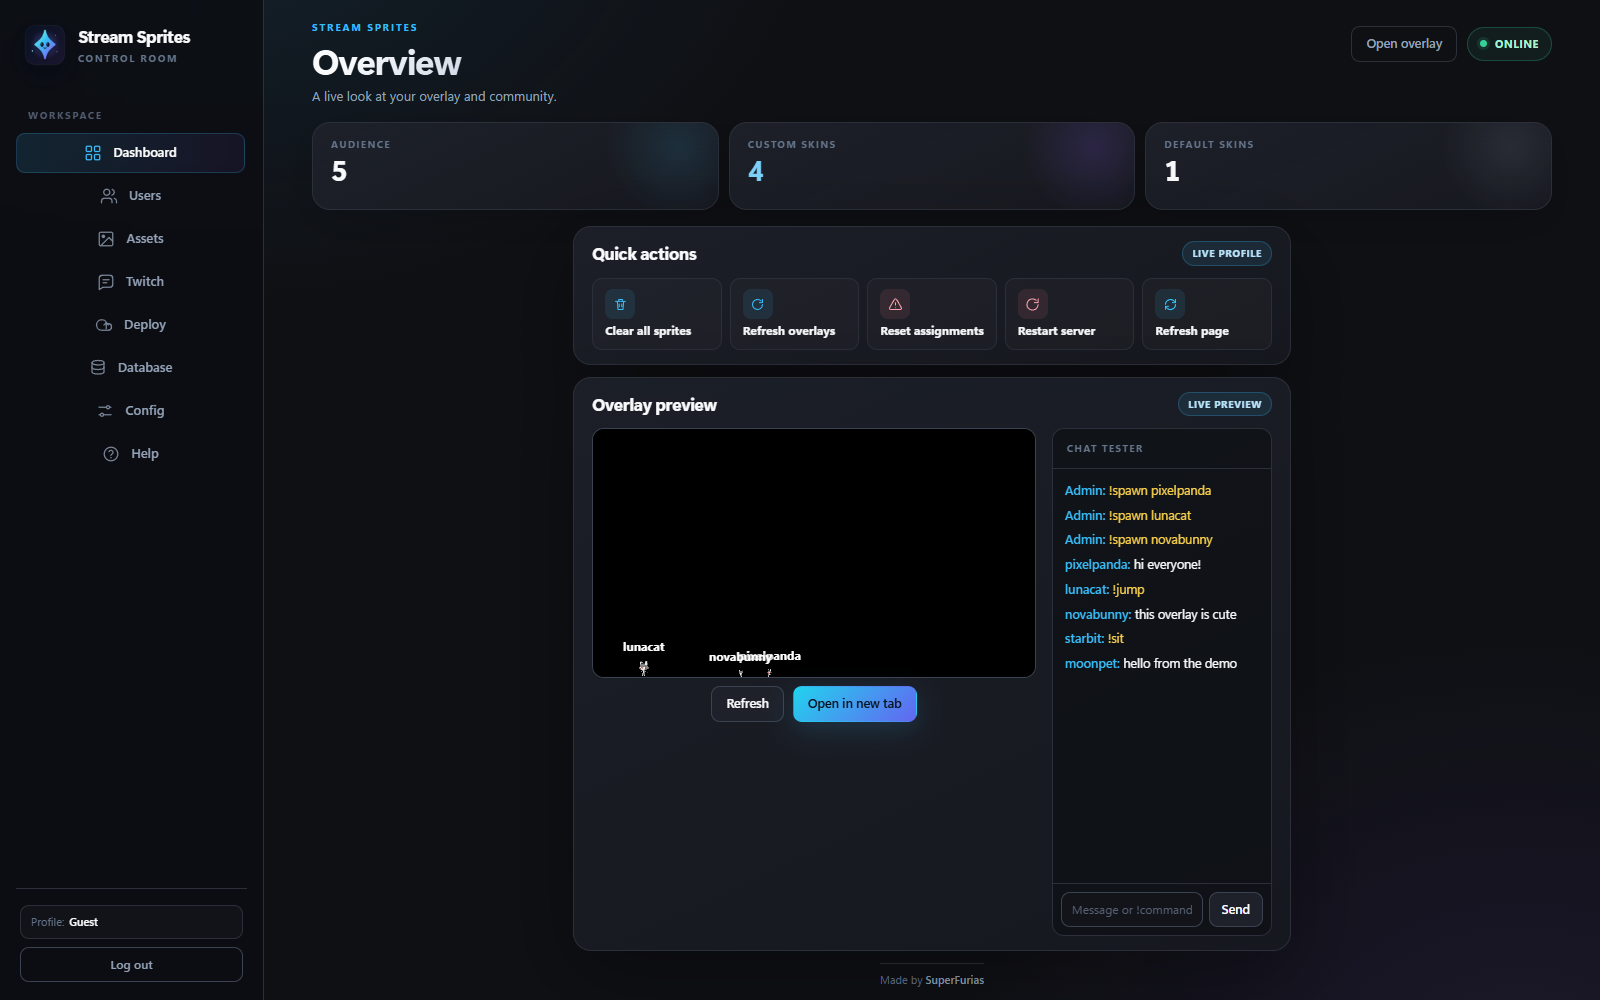
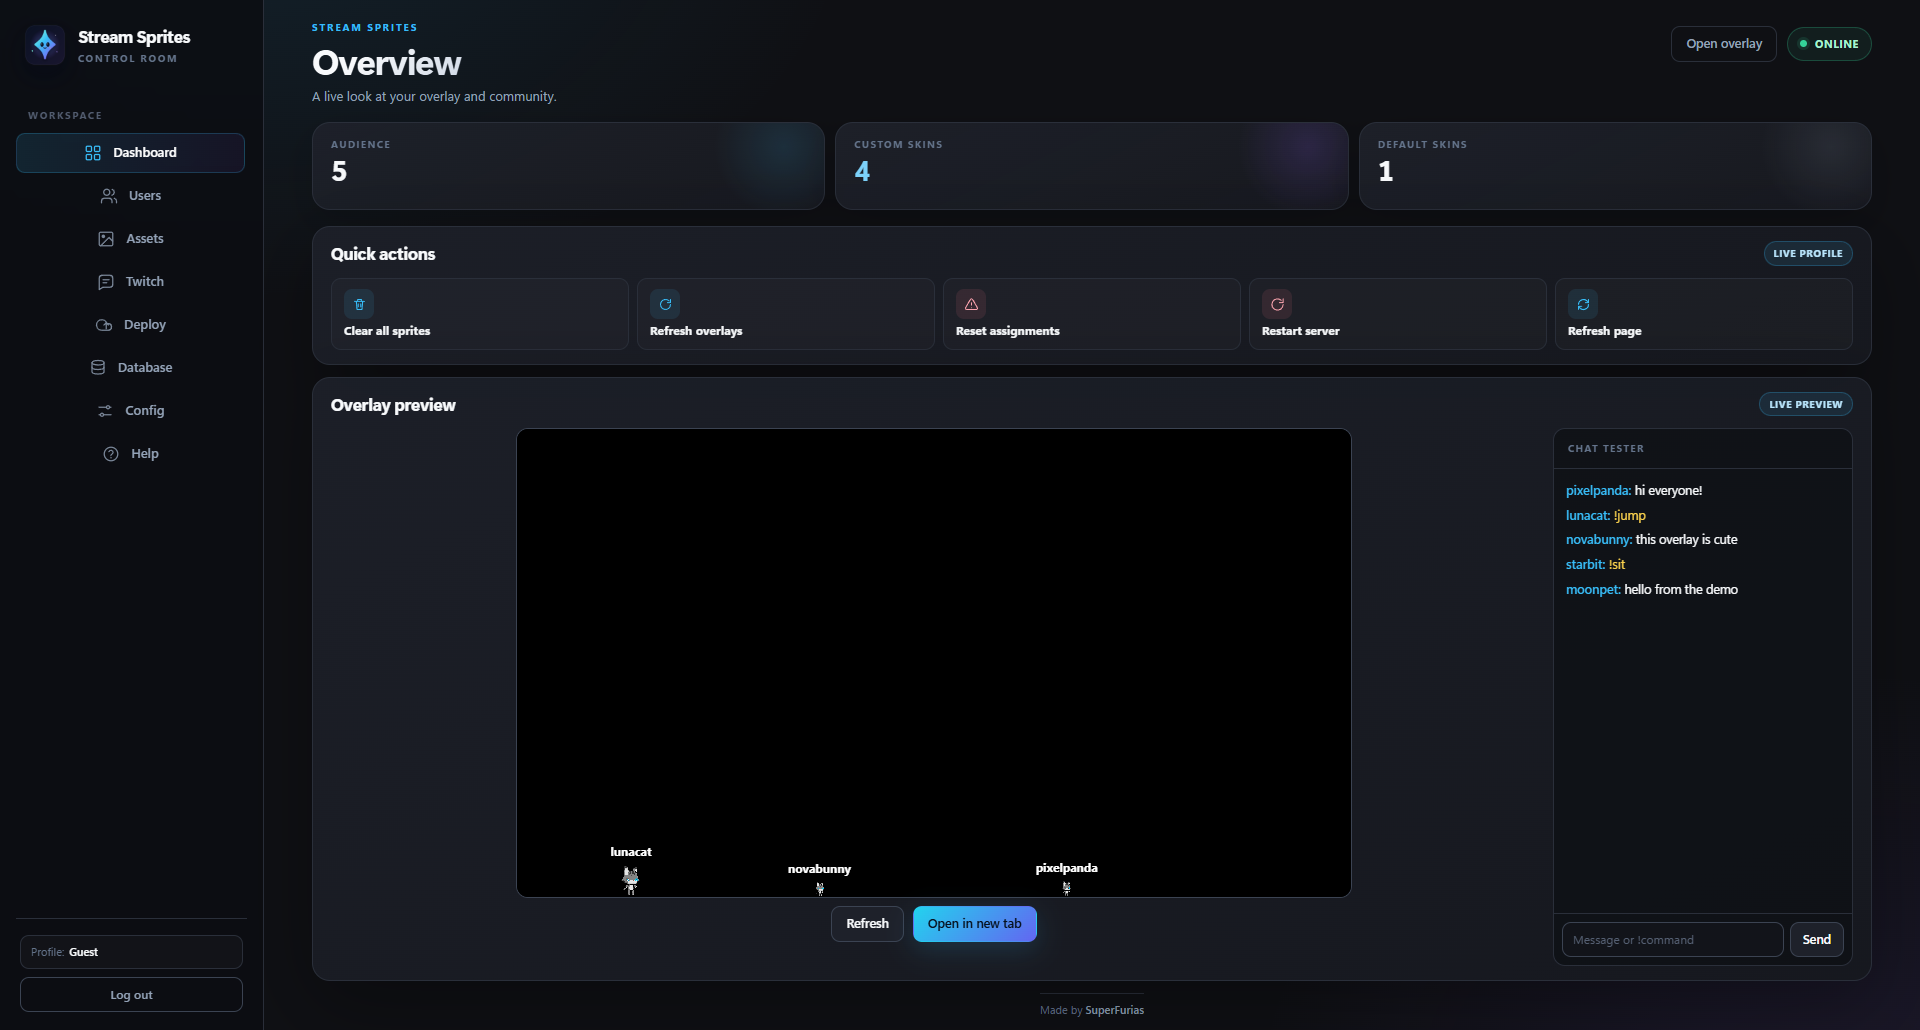
2.8.2: fix full-screen overview width

diff --git a/app/dashboard/ui.css b/app/dashboard/ui.css
@@ -617,6 +617,9 @@ body[data-tab="dashboard"] .metric { min-height: 88px; padding: 14px 18px; }
 body[data-tab="dashboard"] .metric strong { font-size: 28px; }
 body[data-tab="dashboard"] .metric-note { display: none; }
 body[data-tab="dashboard"] #content {
+  width: 100%;
+  max-width: none;
+  margin-inline: 0;
   flex: 1 1 auto;
   min-height: 0;
   display: flex;

diff --git a/CHANGELOG.md b/CHANGELOG.md
@@ -5,6 +5,13 @@ All notable changes to Stream Sprites will be documented in this file.
 The format is based on [Keep a Changelog](https://keepachangelog.com/en/1.0.0/),
 and this project adheres to [Semantic Versioning](https://semver.org/spec/v2.0.0.html).
 
+## [2.8.2] - 2026-10-31
+
+### Fixed
+- The Overview dashboard no longer collapses into a narrow centered column on maximized or ultra-wide windows.
+- The dashboard content now fills the available window width while remaining scroll-free at 1366x768, 1600x1000, 1920x1030, 1920x1080, and 2560x1440.
+- Refreshed the README gallery with the corrected full-screen dashboard capture.
+
 ## [2.8.1] - 2026-10-31
 
 ### Changed
